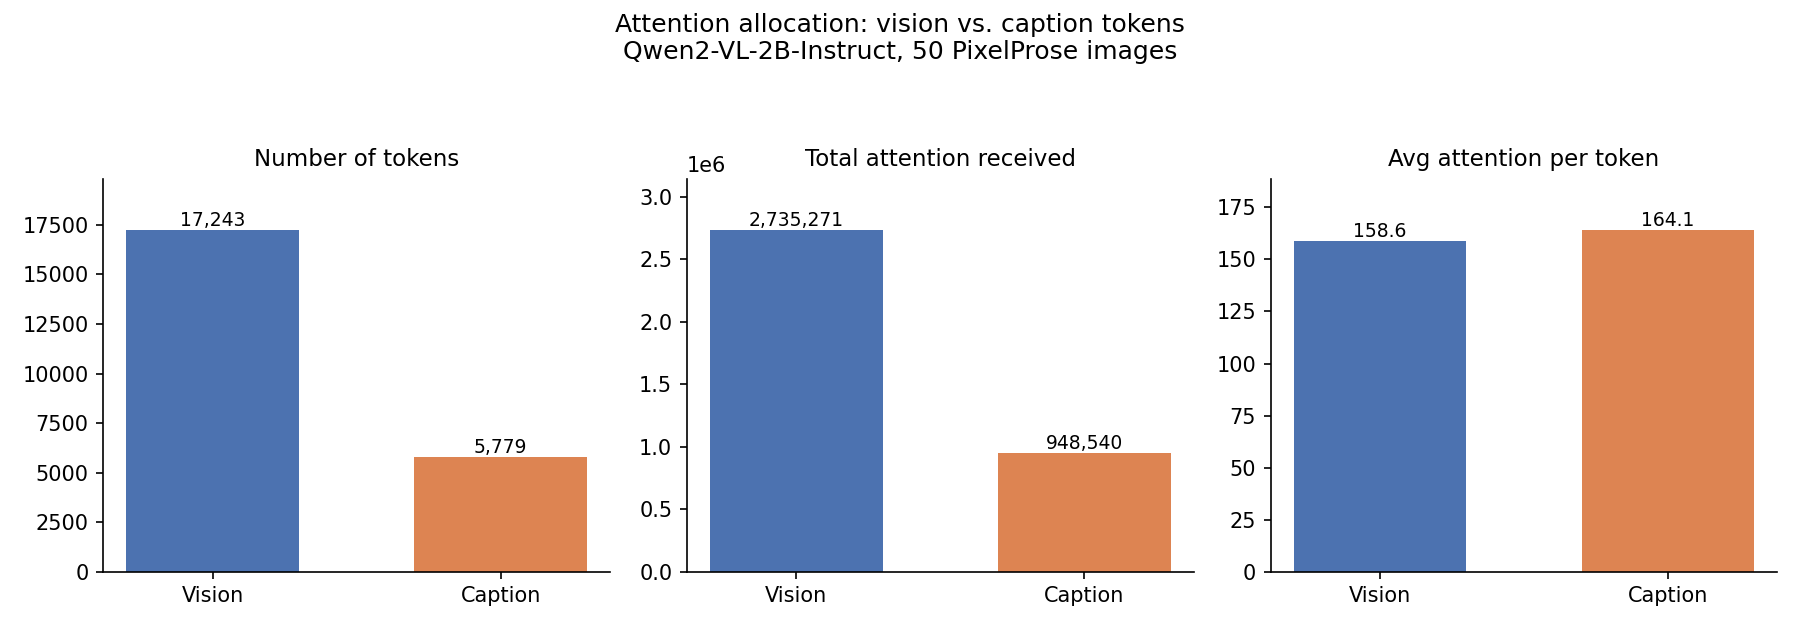
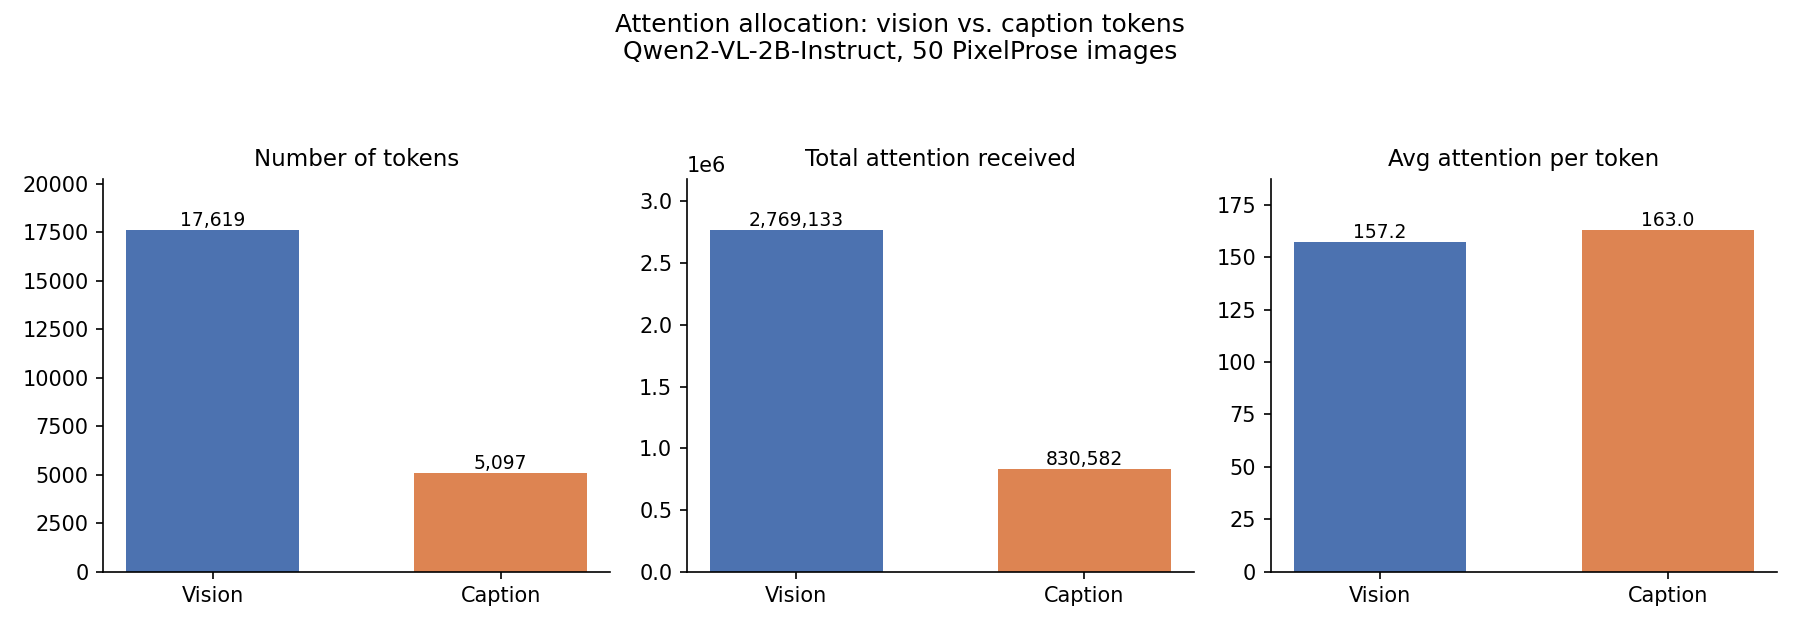
Ran experiment once again with qwen, yielded very similar results

diff --git a/vision_text_attention/make_chart.py b/vision_text_attention/make_chart.py
@@ -6,9 +6,9 @@ Qwen2-VL-2B-Instruct). Uses the aggregate numbers from the run; no model needed.
 import matplotlib.pyplot as plt
 
 # --- aggregate results from the 50-image run (caption tokens only) ---
-n_vision, n_caption = 17243, 5779
-total_vision, total_caption = 2_735_271.2, 948_539.8
-avg_vision, avg_caption = 158.63, 164.14
+n_vision, n_caption = 17619, 5097
+total_vision, total_caption = 2_769_132.7, 830_582.1
+avg_vision, avg_caption = 157.17, 162.96
 
 labels = ["Vision", "Caption"]
 colors = ["#4C72B0", "#DD8452"]  # blue = vision, orange = caption

diff --git a/vision_text_attention/REPORT.md b/vision_text_attention/REPORT.md
@@ -48,19 +48,19 @@ larger than 800 vision tokens are skipped. Reductions accumulate in float32.
 
 | Metric                     |     Vision |    Caption |
 | -------------------------- | ---------: | ---------: |
-| Number of tokens           |     17,243 |      5,779 |
-| Total attention received   | 2,735,271.2 |  948,539.8 |
-| Average attention / token  |    158.63  |    164.14  |
+| Number of tokens           |     17,619 |      5,097 |
+| Total attention received   | 2,769,132.7 |  830,582.1 |
+| Average attention / token  |    157.17  |    162.96  |
 
 Derived shares:
 
 | Share                | Vision | Caption |
 | -------------------- | -----: | ------: |
-| % of all tokens      | 74.9%  | 25.1%   |
-| % of all attention   | 74.3%  | 25.7%   |
+| % of all tokens      | 77.6%  | 22.4%   |
+| % of all attention   | 76.9%  | 23.1%   |
 
-- Vision tokens per image: mean ≈ 345 (capped at 800).
-- Caption tokens per image: mean ≈ 116 — the detailed `vlm_caption` gives a
+- Vision tokens per image: mean ≈ 352 (capped at 800).
+- Caption tokens per image: mean ≈ 102 — the detailed `vlm_caption` gives a
   substantial, fair text side (vs. ~22 tokens for the short alt-text captions).
 
 ## 4. Results — Per Layer
@@ -80,12 +80,12 @@ Derived shares:
 ## 5. Key Findings
 
 1. **Per token, vision and caption are attended essentially equally.** Vision
-   averages **158.6** and caption **164.1** per token — caption is marginally
-   higher (**1.03×**). Neither modality is meaningfully favored once content
+   averages **157.2** and caption **163.0** per token — caption is marginally
+   higher (**1.04×**). Neither modality is meaningfully favored once content
    tokens are compared fairly.
 
-2. **Attention tracks token count almost perfectly.** Vision holds 74.9% of
-   tokens and 74.3% of attention; caption holds 25.1% of tokens and 25.7% of
+2. **Attention tracks token count almost perfectly.** Vision holds 77.6% of
+   tokens and 76.9% of attention; caption holds 22.4% of tokens and 23.1% of
    attention. The model distributes attention in near-exact proportion to how
    many tokens each modality contributes.
 
@@ -125,7 +125,7 @@ Derived shares:
 In Qwen2-VL-2B, once the attention-sink artifact is removed and only content
 tokens are compared, self-attention is split between vision and caption tokens in
 near-exact proportion to their counts, with essentially **equal per-token
-attention** (caption 1.03× vision). The vision/caption balance shifts across
+attention** (caption 1.04× vision). The vision/caption balance shifts across
 depth — caption leads clearly in the first two layers, then the two track each
 other closely through the rest of the network — but neither modality dominates
 the other per token. The central methodological lesson stands: **isolating